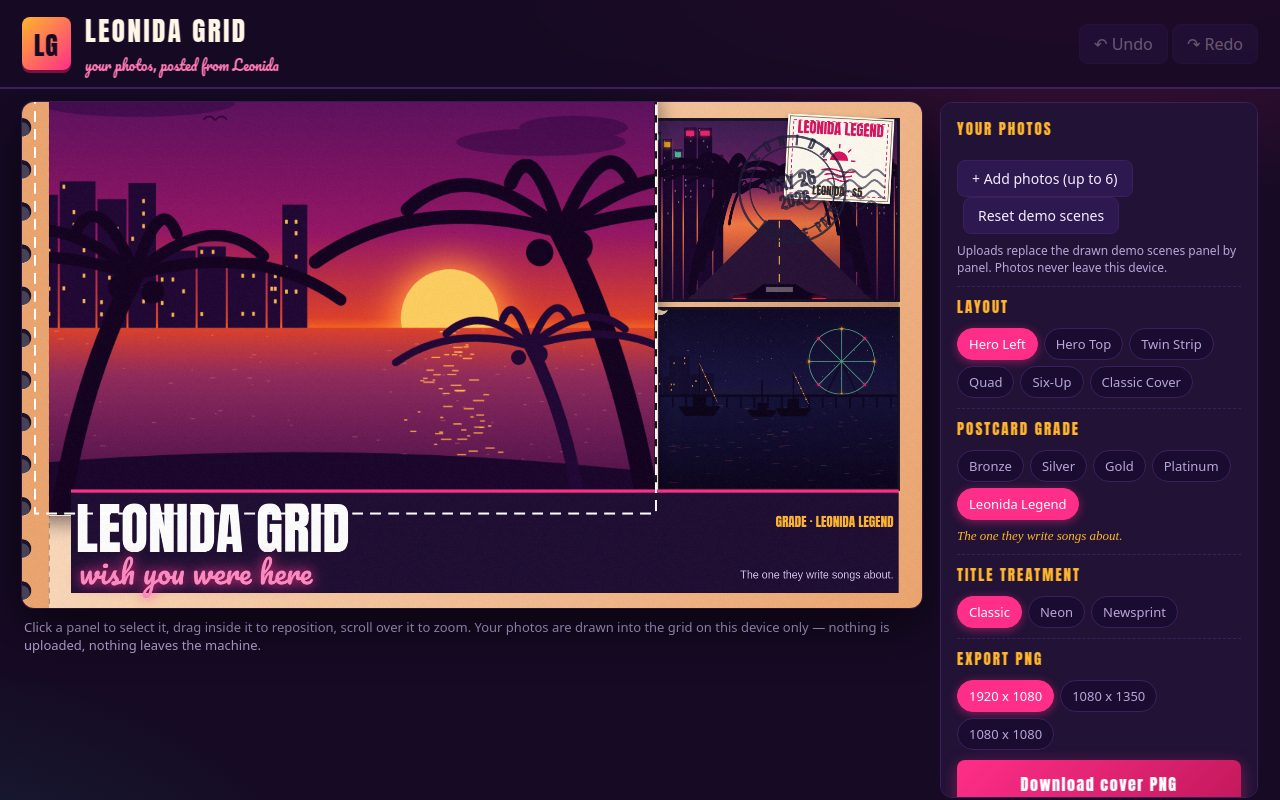
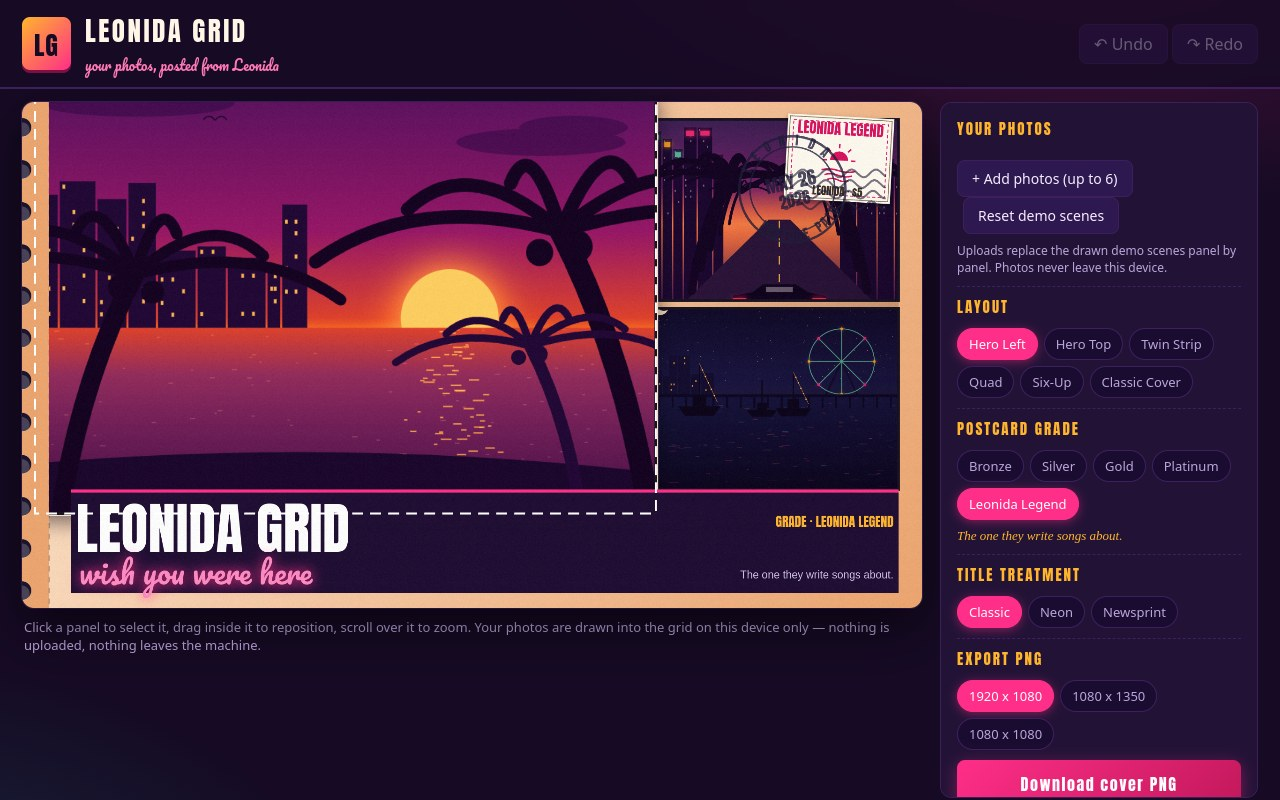
Two new demo scenes: Marina Morning + Airfield Dusk — Six-Up now shows six distinct scenes
- sceneMarinaMorning (seed 5505): pale dawn sky, low sun, five moored
  sailboats with white sails and long calm reflections, headland
- sceneAirfieldDusk (seed 6606): teal-orange dusk, hangar blocks with a
  lit door, control tower, perspective runway with edge lights and a
  small plane silhouette parked on the strip
- Scene set wired through: SCENE_NAMES, buildDemoScenes painters, and
  the panel cycling (defaultPanels / panelAt / demo reset) now mod 6,
  so Six-Up shows six distinct scenes; Hero Left default still opens
  on the original scenes (0, 1, 2)
- Screenshots regenerated at 1280x800 (default, Six-Up, Classic,
  Quad), each <= 256 KiB; README scene counts updated
- main.ts determinism re-verified: two runs byte-identical

diff --git a/app/src/app.js b/app/src/app.js
@@ -1,7 +1,7 @@
 // LEONIDA GRID — your photos, posted from Leonida.
 // A GTA-style cover-art maker wrapped in a Leonida postcard: drop in up to
 // six photos and they land in a multi-panel comic grid inside a perforated
-// postcard frame, under a grade stamp and a LEONIDA postmark. Four drawn
+// postcard frame, under a grade stamp and a LEONIDA postmark. Six drawn
 // Leonida scenes fill the grid until your own photos replace them, panel by
 // panel. Everything runs locally in the browser; photos never leave the
 // machine.
@@ -54,14 +54,14 @@ const SIZES = [
 
 const TITLE_PRESETS = ['LEONIDA GRID', 'NEON SHORE', 'PALM HOUR', 'NIGHT SHIFT', 'VICE MAIL'];
 
-const SCENE_NAMES = ['Sunset Bay', 'Palm Strip', 'Neon Harbor', 'Causeway at Dusk'];
+const SCENE_NAMES = ['Sunset Bay', 'Palm Strip', 'Neon Harbor', 'Causeway at Dusk', 'Marina Morning', 'Airfield Dusk'];
 
 function gradeOf(id) {
   return GRADES.find((g) => g.id === id) || GRADES[GRADES.length - 1];
 }
 
-// Each panel starts on a drawn demo scene (cycling through the four) with a
-// varied focal framing, so repeated scenes never look like copy-paste.
+// Each panel starts on a drawn demo scene (cycling through the six) with a
+// varied focal framing, so the full Six-Up grid shows six distinct scenes.
 function defaultPanels() {
   const focals = [
     { x: 0.50, y: 1.45, zoom: 1.05 },
@@ -74,7 +74,7 @@ function defaultPanels() {
     { x: 0.48, y: 1.50, zoom: 1.05 },
     { x: 0.58, y: 1.18, zoom: 1.10 },
   ];
-  return focals.map((f, i) => ({ src: { kind: 'demo', scene: i % 4 }, ...f }));
+  return focals.map((f, i) => ({ src: { kind: 'demo', scene: i % 6 }, ...f }));
 }
 
 const state = {
@@ -179,7 +179,7 @@ function sourceCanvas(panel) {
 }
 
 /* ------------------------------------------------- drawn demo scenes ---- */
-/* Four Leonida postcard scenes, painted once at boot with a seeded RNG so
+/* Six Leonida postcard scenes, painted once at boot with a seeded RNG so
    every load — and every screenshot — shows the same pictures. No external
    assets: gradients, silhouettes and light, straight on canvas. */
 
@@ -564,9 +564,248 @@ function sceneCauseway(ctx, w, h) {
   }
 }
 
+function sceneMarinaMorning(ctx, w, h) {
+  const rng = mulberry32(5505);
+  sky(ctx, w, h, [[0, '#b9c9de'], [0.38, '#eed9c4'], [0.56, '#fbe0b4'], [1, '#f7d9a8']]);
+  const horizon = h * 0.58;
+  // low sun + glow, just above the horizon
+  ctx.save();
+  ctx.shadowColor = '#ffe9b0';
+  ctx.shadowBlur = 55;
+  ctx.fillStyle = '#ffedb8';
+  ctx.beginPath(); ctx.arc(w * 0.30, horizon - h * 0.015, w * 0.052, 0, Math.PI * 2); ctx.fill();
+  ctx.restore();
+  // soft dawn clouds
+  ctx.fillStyle = 'rgba(255,244,224,0.55)';
+  for (const [cx, cy, cw] of [[0.62, 0.14, 0.30], [0.20, 0.24, 0.22], [0.84, 0.30, 0.20]]) {
+    ctx.beginPath();
+    ctx.ellipse(w * cx, h * cy, w * cw * 0.5, h * 0.020, 0, 0, Math.PI * 2);
+    ctx.ellipse(w * (cx + 0.04), h * (cy - 0.022), w * cw * 0.30, h * 0.016, 0, 0, Math.PI * 2);
+    ctx.fill();
+  }
+  // distant headland, right
+  ctx.fillStyle = '#8fa3b8';
+  ctx.beginPath();
+  ctx.moveTo(w * 0.68, horizon);
+  ctx.quadraticCurveTo(w * 0.84, horizon - h * 0.075, w, horizon - h * 0.045);
+  ctx.lineTo(w, horizon);
+  ctx.closePath();
+  ctx.fill();
+  // calm water
+  const sea = ctx.createLinearGradient(0, horizon, 0, h);
+  sea.addColorStop(0, '#f2c98d');
+  sea.addColorStop(0.22, '#c9b49a');
+  sea.addColorStop(1, '#5f7d95');
+  ctx.fillStyle = sea;
+  ctx.fillRect(0, horizon, w, h - horizon);
+  // sun path sparkles
+  ctx.fillStyle = 'rgba(255,238,180,0.8)';
+  for (let i = 0; i < 70; i++) {
+    const yy = horizon + rng() * (h - horizon) * 0.9;
+    const spread = 0.015 + ((yy - horizon) / (h - horizon)) * 0.07;
+    const xx = w * 0.30 + (rng() - 0.5) * w * spread * 2;
+    ctx.fillRect(xx, yy, 3 + rng() * 12, 1.8);
+  }
+  ctx.fillStyle = 'rgba(255,255,255,0.35)';
+  for (let i = 0; i < 90; i++) ctx.fillRect(rng() * w, horizon + rng() * (h - horizon), 2 + rng() * 7, 1.2);
+  // moored sailboats: white sails, banded hulls, long calm reflections
+  for (const [boatX, boatS] of [[0.16, 1.0], [0.47, 0.72], [0.60, 0.88], [0.78, 0.60], [0.90, 0.78]]) {
+    const bw = w * 0.11 * boatS;
+    const by = horizon + h * (0.015 + (1 - boatS) * 0.05);
+    const mastTop = by - h * 0.30 * boatS;
+    // reflection: mast and sail smeared straight down the still water
+    ctx.fillStyle = 'rgba(70,90,110,0.35)';
+    ctx.fillRect(w * boatX - 1.2, by + h * 0.02, 2.4, h * 0.26 * boatS);
+    ctx.fillStyle = 'rgba(255,250,238,0.30)';
+    ctx.beginPath();
+    ctx.moveTo(w * boatX + bw * 0.04, by + h * 0.025);
+    ctx.lineTo(w * boatX + bw * 0.30, by + h * 0.02);
+    ctx.lineTo(w * boatX + bw * 0.10, by + h * 0.24 * boatS);
+    ctx.closePath(); ctx.fill();
+    ctx.fillStyle = 'rgba(40,55,70,0.40)';
+    ctx.fillRect(w * boatX - bw * 0.30, by + h * 0.018, bw * 0.6, 3);
+    // hull + waterline stripe
+    ctx.fillStyle = '#2c3e50';
+    ctx.beginPath();
+    ctx.moveTo(w * boatX - bw / 2, by);
+    ctx.lineTo(w * boatX + bw / 2, by);
+    ctx.lineTo(w * boatX + bw * 0.32, by + h * 0.038 * boatS);
+    ctx.lineTo(w * boatX - bw * 0.32, by + h * 0.038 * boatS);
+    ctx.closePath(); ctx.fill();
+    ctx.fillStyle = '#e0492e';
+    ctx.fillRect(w * boatX - bw / 2, by - 2.5, bw, 2.5);
+    // mast, mainsail and jib
+    ctx.strokeStyle = '#22303e';
+    ctx.lineWidth = Math.max(1.6, 3 * boatS);
+    ctx.beginPath(); ctx.moveTo(w * boatX, by); ctx.lineTo(w * boatX, mastTop); ctx.stroke();
+    ctx.fillStyle = '#fdf6e9';
+    ctx.beginPath();
+    ctx.moveTo(w * boatX + bw * 0.03, mastTop + h * 0.01);
+    ctx.lineTo(w * boatX + bw * 0.03, by - h * 0.012);
+    ctx.lineTo(w * boatX + bw * 0.34, by - h * 0.012);
+    ctx.closePath(); ctx.fill();
+    ctx.fillStyle = '#f3e3c2';
+    ctx.beginPath();
+    ctx.moveTo(w * boatX - bw * 0.03, mastTop + h * 0.035);
+    ctx.lineTo(w * boatX - bw * 0.03, by - h * 0.012);
+    ctx.lineTo(w * boatX - bw * 0.26, by - h * 0.012);
+    ctx.closePath(); ctx.fill();
+  }
+  // early birds
+  ctx.strokeStyle = 'rgba(60,70,90,0.65)';
+  ctx.lineWidth = 1.8;
+  for (const [bx2, by2, bs] of [[0.55, 0.18, 8], [0.63, 0.14, 6]]) {
+    ctx.beginPath();
+    ctx.arc(w * bx2 - bs, h * by2, bs, Math.PI * 1.15, Math.PI * 1.85);
+    ctx.arc(w * bx2 + bs, h * by2, bs, Math.PI * 1.15, Math.PI * 1.85);
+    ctx.stroke();
+  }
+}
+
+function sceneAirfieldDusk(ctx, w, h) {
+  const rng = mulberry32(6606);
+  sky(ctx, w, h, [[0, '#04222e'], [0.34, '#0b4653'], [0.50, '#c65a2e'], [0.56, '#f08a3c'], [1, '#f08a3c']]);
+  const horizon = h * 0.56;
+  // first stars in the teal
+  ctx.fillStyle = 'rgba(255,255,255,0.7)';
+  for (let i = 0; i < 60; i++) ctx.fillRect(rng() * w, rng() * horizon * 0.5, rng() < 0.18 ? 2.2 : 1.2, 1.2);
+  // sun half-set on the horizon
+  ctx.save();
+  ctx.shadowColor = '#ff9a3c';
+  ctx.shadowBlur = 50;
+  ctx.fillStyle = '#ffb52e';
+  ctx.beginPath(); ctx.arc(w * 0.72, horizon + h * 0.004, w * 0.045, Math.PI, Math.PI * 2); ctx.fill();
+  ctx.restore();
+  // dark cloud bands
+  ctx.fillStyle = 'rgba(4,26,34,0.60)';
+  for (const [cx, cy, cw] of [[0.25, 0.16, 0.34], [0.66, 0.26, 0.26]]) {
+    ctx.beginPath();
+    ctx.ellipse(w * cx, h * cy, w * cw * 0.5, h * 0.020, 0, 0, Math.PI * 2);
+    ctx.fill();
+  }
+  // ground
+  const ground = ctx.createLinearGradient(0, horizon, 0, h);
+  ground.addColorStop(0, '#7a3c22');
+  ground.addColorStop(0.18, '#33231f');
+  ground.addColorStop(1, '#0a1216');
+  ctx.fillStyle = ground;
+  ctx.fillRect(0, horizon, w, h - horizon);
+  // hangar blocks, left: curved roofs, one lit door with mullions
+  ctx.fillStyle = '#08161c';
+  for (const [hx, hw2, hh] of [[0.02, 0.20, 0.13], [0.235, 0.15, 0.10]]) {
+    const x0 = w * hx, ww = w * hw2, top = horizon - h * hh;
+    ctx.beginPath();
+    ctx.moveTo(x0, horizon + 2);
+    ctx.lineTo(x0, top + h * 0.03);
+    ctx.quadraticCurveTo(x0 + ww / 2, top - h * 0.035, x0 + ww, top + h * 0.03);
+    ctx.lineTo(x0 + ww, horizon + 2);
+    ctx.closePath(); ctx.fill();
+  }
+  ctx.fillStyle = 'rgba(255,181,46,0.85)';
+  ctx.fillRect(w * 0.055, horizon - h * 0.085, w * 0.05, h * 0.085);
+  ctx.fillStyle = 'rgba(8,22,28,0.9)';
+  for (let i = 0; i < 3; i++) ctx.fillRect(w * (0.062 + i * 0.014), horizon - h * 0.085, 2.5, h * 0.085);
+  // control tower, right
+  ctx.fillStyle = '#08161c';
+  ctx.fillRect(w * 0.90, horizon - h * 0.17, w * 0.028, h * 0.17);
+  ctx.fillRect(w * 0.885, horizon - h * 0.205, w * 0.058, h * 0.038);
+  ctx.fillStyle = 'rgba(140,230,255,0.8)';
+  ctx.fillRect(w * 0.889, horizon - h * 0.20, w * 0.05, h * 0.026);
+  // runway in perspective, vanishing near the sun
+  const vx = w * 0.70;
+  ctx.fillStyle = '#0d1512';
+  ctx.beginPath();
+  ctx.moveTo(w * 0.30, h);
+  ctx.lineTo(vx - w * 0.012, horizon + 2);
+  ctx.lineTo(vx + w * 0.012, horizon + 2);
+  ctx.lineTo(w * 1.02, h);
+  ctx.closePath();
+  ctx.fill();
+  // centreline dashes, shrinking to the vanishing point
+  ctx.strokeStyle = 'rgba(255,240,200,0.9)';
+  ctx.lineCap = 'round';
+  for (let i = 0; i < 7; i++) {
+    const t0 = Math.pow(i / 7, 1.6), t1 = Math.pow((i + 0.45) / 7, 1.6);
+    ctx.lineWidth = Math.max(1.2, 5.5 * (1 - t0 * 0.85));
+    ctx.beginPath();
+    ctx.moveTo(w * 0.66 + (vx - w * 0.66) * t0, h + (horizon - h) * t0);
+    ctx.lineTo(w * 0.66 + (vx - w * 0.66) * t1, h + (horizon - h) * t1);
+    ctx.stroke();
+  }
+  // edge lights along both sides
+  for (let i = 0; i < 9; i++) {
+    const t = Math.pow(i / 8, 1.35);
+    const y = h + (horizon - h) * t;
+    const lx = w * 0.30 + (vx - w * 0.012 - w * 0.30) * t;
+    const rx = w * 1.02 + (vx + w * 0.012 - w * 1.02) * t;
+    ctx.save();
+    ctx.shadowColor = '#ffd76e';
+    ctx.shadowBlur = 12 * (1 - t * 0.6);
+    ctx.fillStyle = '#ffe9a8';
+    const r = Math.max(1.4, 4.2 * (1 - t * 0.7));
+    ctx.beginPath(); ctx.arc(lx, y, r, 0, Math.PI * 2); ctx.fill();
+    ctx.beginPath(); ctx.arc(rx, y, r, 0, Math.PI * 2); ctx.fill();
+    ctx.restore();
+  }
+  // small plane silhouette parked on the near runway, nose to the left
+  ctx.save();
+  ctx.fillStyle = '#05090b';
+  const pw = w * 0.30, px = w * 0.40, py = h * 0.86, ph = h * 0.055;
+  ctx.beginPath();
+  ctx.moveTo(px + pw * 0.02, py);
+  ctx.quadraticCurveTo(px - pw * 0.01, py - ph * 0.85, px + pw * 0.10, py - ph * 0.98);
+  ctx.lineTo(px + pw * 0.78, py - ph * 0.88);
+  ctx.lineTo(px + pw * 0.85, py - ph * 1.78);
+  ctx.lineTo(px + pw * 0.925, py - ph * 1.74);
+  ctx.lineTo(px + pw * 0.90, py - ph * 0.82);
+  ctx.lineTo(px + pw, py - ph * 0.52);
+  ctx.lineTo(px + pw * 0.90, py);
+  ctx.closePath(); ctx.fill();
+  // low wing slab + tailplane
+  ctx.beginPath();
+  ctx.moveTo(px + pw * 0.34, py - ph * 0.30);
+  ctx.lineTo(px + pw * 0.58, py - ph * 0.22);
+  ctx.lineTo(px + pw * 0.50, py + ph * 0.30);
+  ctx.lineTo(px + pw * 0.28, py + ph * 0.22);
+  ctx.closePath(); ctx.fill();
+  ctx.beginPath();
+  ctx.moveTo(px + pw * 0.86, py - ph * 0.30);
+  ctx.lineTo(px + pw * 1.0, py - ph * 0.26);
+  ctx.lineTo(px + pw * 0.97, py - ph * 0.02);
+  ctx.lineTo(px + pw * 0.87, py - ph * 0.04);
+  ctx.closePath(); ctx.fill();
+  // cockpit glint + spinning prop disc at the nose
+  ctx.fillStyle = 'rgba(150,225,255,0.55)';
+  ctx.beginPath();
+  ctx.moveTo(px + pw * 0.13, py - ph * 0.92);
+  ctx.lineTo(px + pw * 0.30, py - ph * 0.90);
+  ctx.lineTo(px + pw * 0.28, py - ph * 0.55);
+  ctx.lineTo(px + pw * 0.14, py - ph * 0.58);
+  ctx.closePath(); ctx.fill();
+  ctx.strokeStyle = 'rgba(200,220,230,0.45)';
+  ctx.lineWidth = 2;
+  ctx.beginPath(); ctx.ellipse(px + pw * 0.005, py - ph * 0.55, 3.2, ph * 0.78, 0, 0, Math.PI * 2); ctx.stroke();
+  // gear struts + wheels
+  ctx.strokeStyle = '#05090b';
+  ctx.lineWidth = 3.4;
+  ctx.beginPath();
+  ctx.moveTo(px + pw * 0.30, py + ph * 0.1); ctx.lineTo(px + pw * 0.27, py + ph * 0.52);
+  ctx.moveTo(px + pw * 0.55, py + ph * 0.1); ctx.lineTo(px + pw * 0.58, py + ph * 0.52);
+  ctx.stroke();
+  ctx.fillStyle = '#05090b';
+  ctx.beginPath(); ctx.arc(px + pw * 0.27, py + ph * 0.58, ph * 0.17, 0, Math.PI * 2); ctx.fill();
+  ctx.beginPath(); ctx.arc(px + pw * 0.58, py + ph * 0.58, ph * 0.17, 0, Math.PI * 2); ctx.fill();
+  // red beacon on the fin
+  ctx.shadowColor = '#ff2244';
+  ctx.shadowBlur = 10;
+  ctx.fillStyle = '#ff3355';
+  ctx.beginPath(); ctx.arc(px + pw * 0.885, py - ph * 1.80, 2.6, 0, Math.PI * 2); ctx.fill();
+  ctx.restore();
+}
+
 const demoScenes = [];
 function buildDemoScenes() {
-  const painters = [sceneSunsetBay, scenePalmStrip, sceneNeonHarbor, sceneCauseway];
+  const painters = [sceneSunsetBay, scenePalmStrip, sceneNeonHarbor, sceneCauseway, sceneMarinaMorning, sceneAirfieldDusk];
   for (const paint of painters) {
     const c = document.createElement('canvas');
     c.width = 960; c.height = 720;
@@ -662,7 +901,7 @@ function panelCount() {
 function panelAt(index) {
   if (!state.panels[index]) {
     const fresh = defaultPanels();
-    state.panels[index] = { ...(fresh[index] || { src: { kind: 'demo', scene: index % 4 }, x: 0.5, y: 1.3, zoom: 1.05 }) };
+    state.panels[index] = { ...(fresh[index] || { src: { kind: 'demo', scene: index % 6 }, x: 0.5, y: 1.3, zoom: 1.05 }) };
   }
   return state.panels[index];
 }
@@ -1276,7 +1515,7 @@ for (const [el, key] of [[els.popoutToggle, 'popOut'], [els.grainToggle, 'grain'
 
 els.demoResetBtn.addEventListener('click', () => {
   const fresh = defaultPanels();
-  state.panels = state.panels.map((p, i) => ({ ...p, src: { ...(fresh[i] ? fresh[i].src : { kind: 'demo', scene: i % 4 }) } }));
+  state.panels = state.panels.map((p, i) => ({ ...p, src: { ...(fresh[i] ? fresh[i].src : { kind: 'demo', scene: i % 6 }) } }));
   pushHistory(true);
   syncPanelControls();
   renderPreview();

diff --git a/README.md b/README.md
@@ -25,10 +25,11 @@ the UI, and it is true: everything is drawn on a local canvas).
 - **6 layouts** — Hero Left (the hero spans a 2×2 block), Hero Top, Twin
   Strip, Quad, Six-Up, and Classic Cover (full-bleed hero under the title
   band), all with thin cream gutters and ink borders between panels.
-- **Drawn demo scenes** — on first load, four Leonida scenes painted in
-  code on a canvas (Sunset Bay, Palm Strip, Neon Harbor, Causeway at Dusk —
-  no external assets) fill the grid, so the cover is complete before you
-  add anything. Uploaded photos replace demo panels one by one; a Reset
+- **Drawn demo scenes** — on first load, six Leonida scenes painted in
+  code on a canvas (Sunset Bay, Palm Strip, Neon Harbor, Causeway at Dusk,
+  Marina Morning, Airfield Dusk — no external assets) fill the grid, so
+  the cover is complete before you add anything and Six-Up shows six
+  distinct scenes. Uploaded photos replace demo panels one by one; a Reset
   button restores the scenes.
 - **Pop-out hero** — a toggle that scales the hero panel's picture past
   its frame edge with a drop shadow and a paper edge, the classic
@@ -73,8 +74,8 @@ to the output directory and writes `dossier.json` with `buildDossier` from
   state: Hero Left grid filled with the drawn demo scenes, pop-out hero
   on, Leonida Legend grade, stamp and postmark in the corner, and the
   full controls panel (photos, layouts, grades, treatments, export).
-- `screenshots/02-sixup.jpg` — the Six-Up layout: all four demo scenes
-  across six panels with varied crops.
+- `screenshots/02-sixup.jpg` — the Six-Up layout: all six demo scenes,
+  one distinct scene per panel.
 - `screenshots/03-classic.jpg` — Classic Cover with the Newsprint title
   treatment and the Gold grade.
 - `screenshots/04-quad.jpg` — the Quad layout with the Neon title
@@ -89,7 +90,7 @@ artwork or fonts. Lettering: Anton & Pacifico (SIL Open Font License, see
 This build evolves the earlier Leonida Postcard entry in place: the
 postcard identity (perforation, stamp, postmark, grades) is kept, but the
 picture side is now the photo-upload multi-panel grid that the top of the
-leaderboard rewards — six grid layouts, a pop-out hero, and four drawn
+leaderboard rewards — six grid layouts, a pop-out hero, and six drawn
 demo scenes standing in until the visitor's own photos replace them. The
 determinism contract is unchanged: `main.ts` produces a byte-identical
 dossier across runs.
